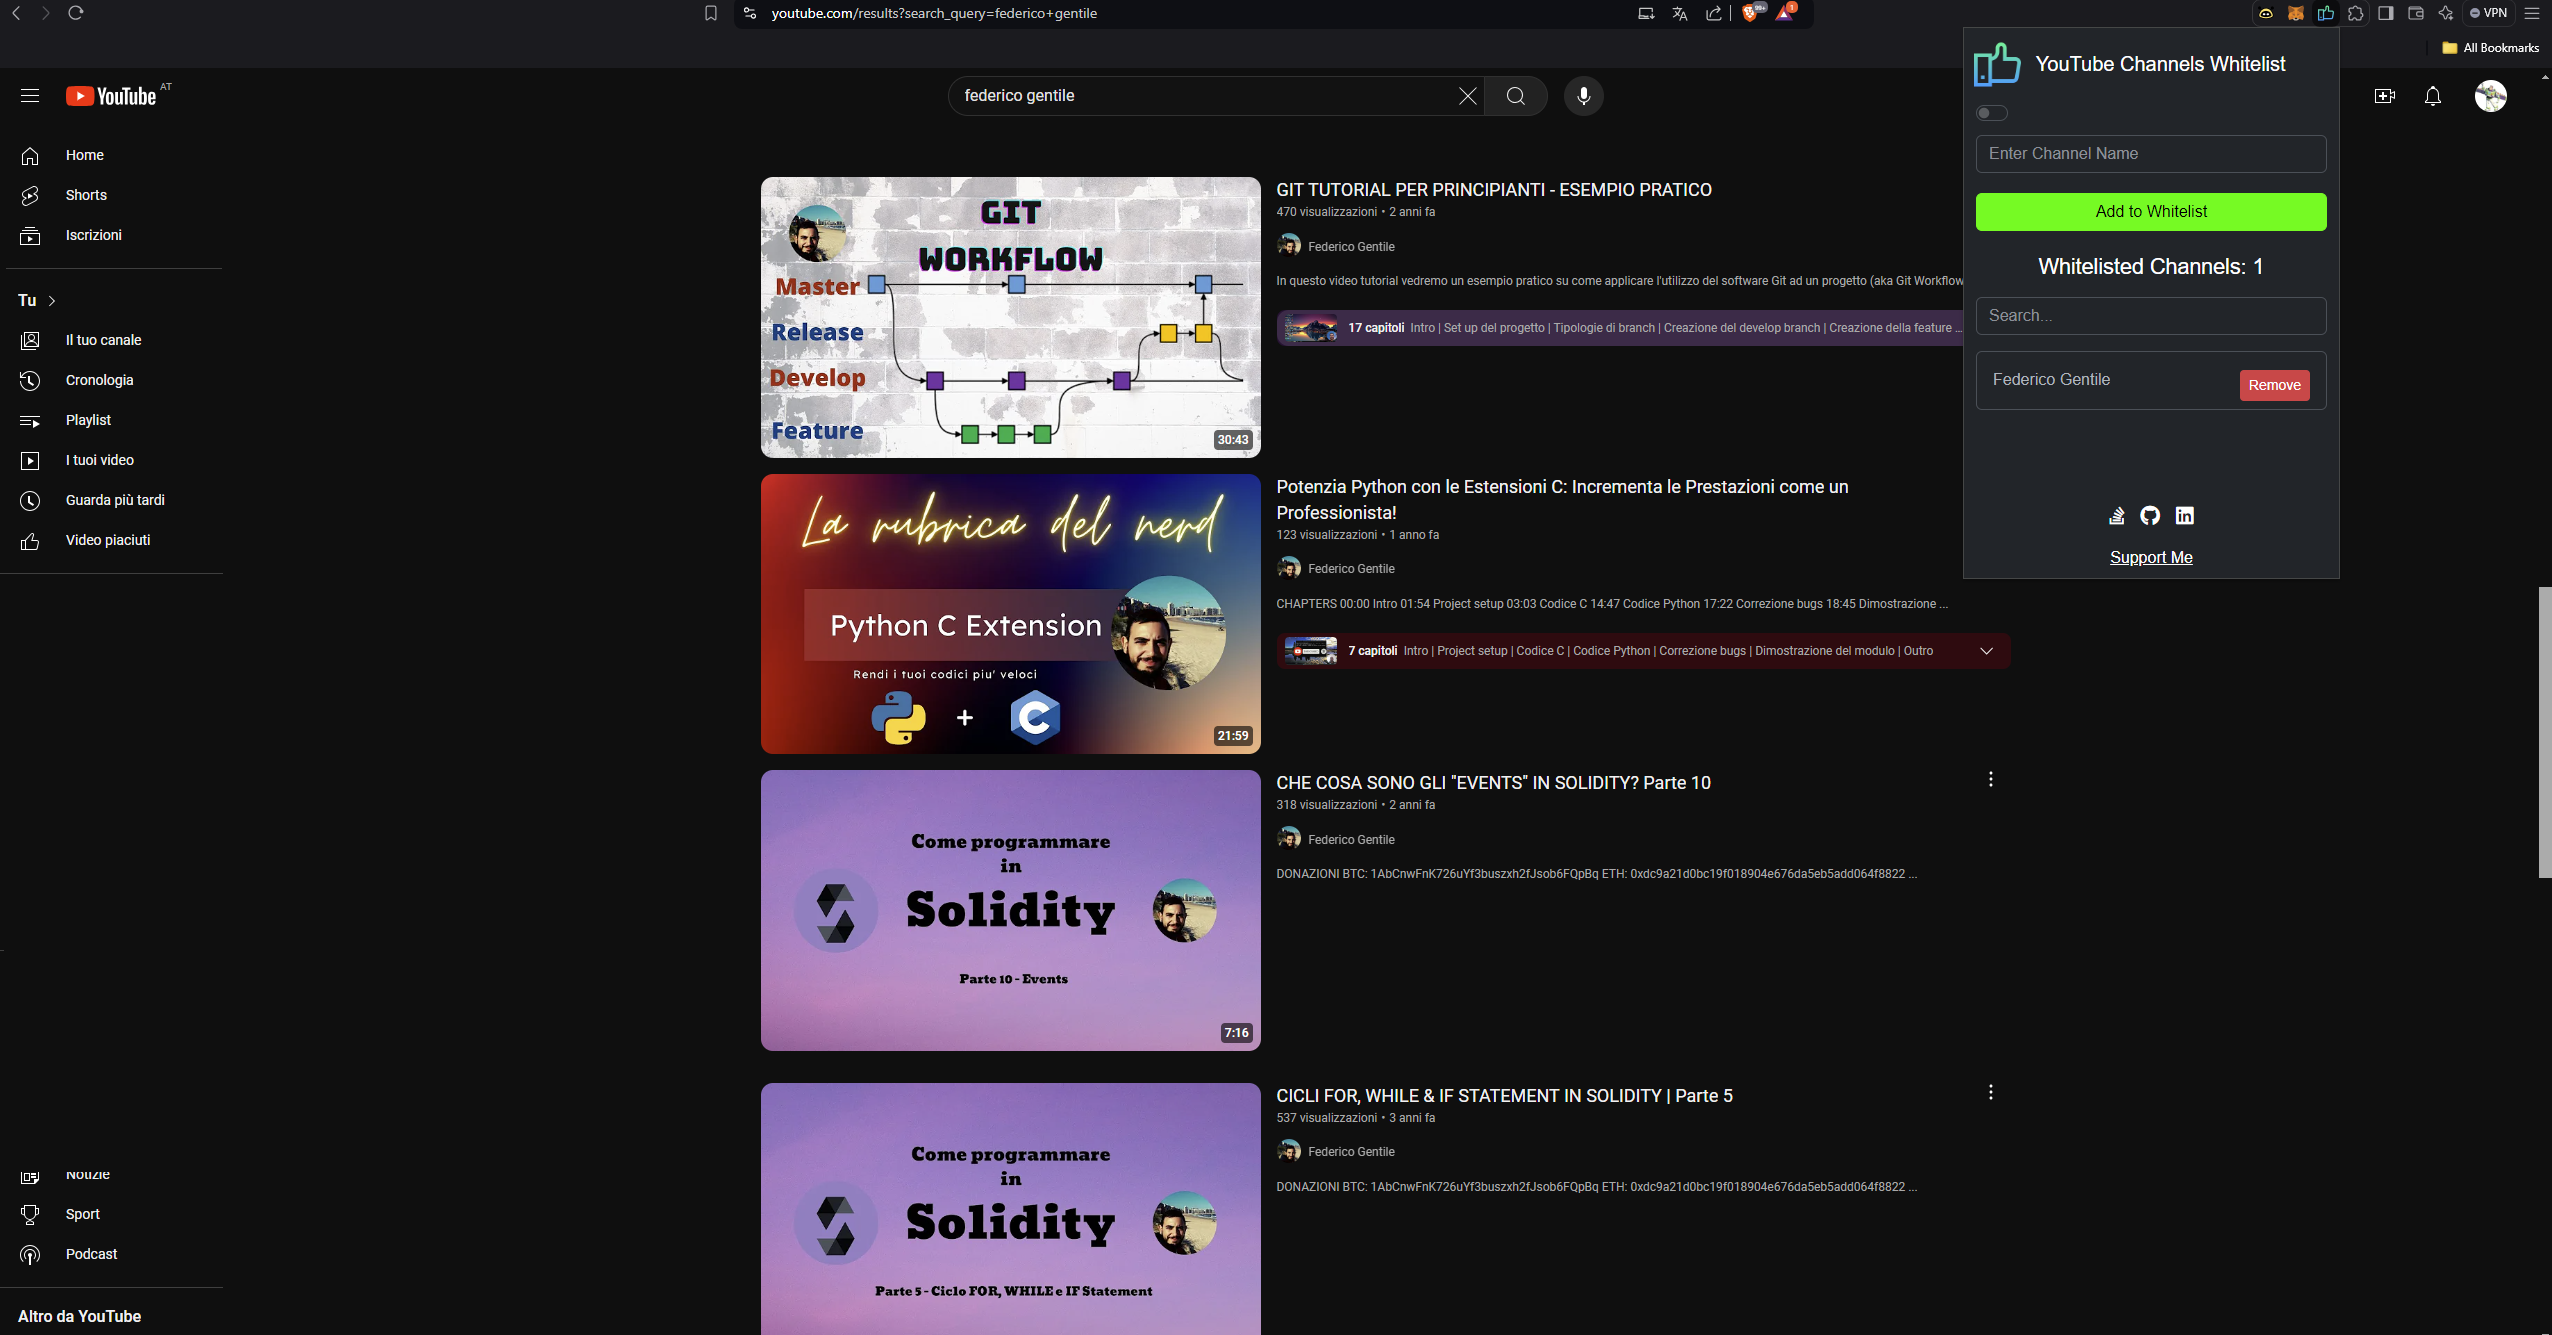
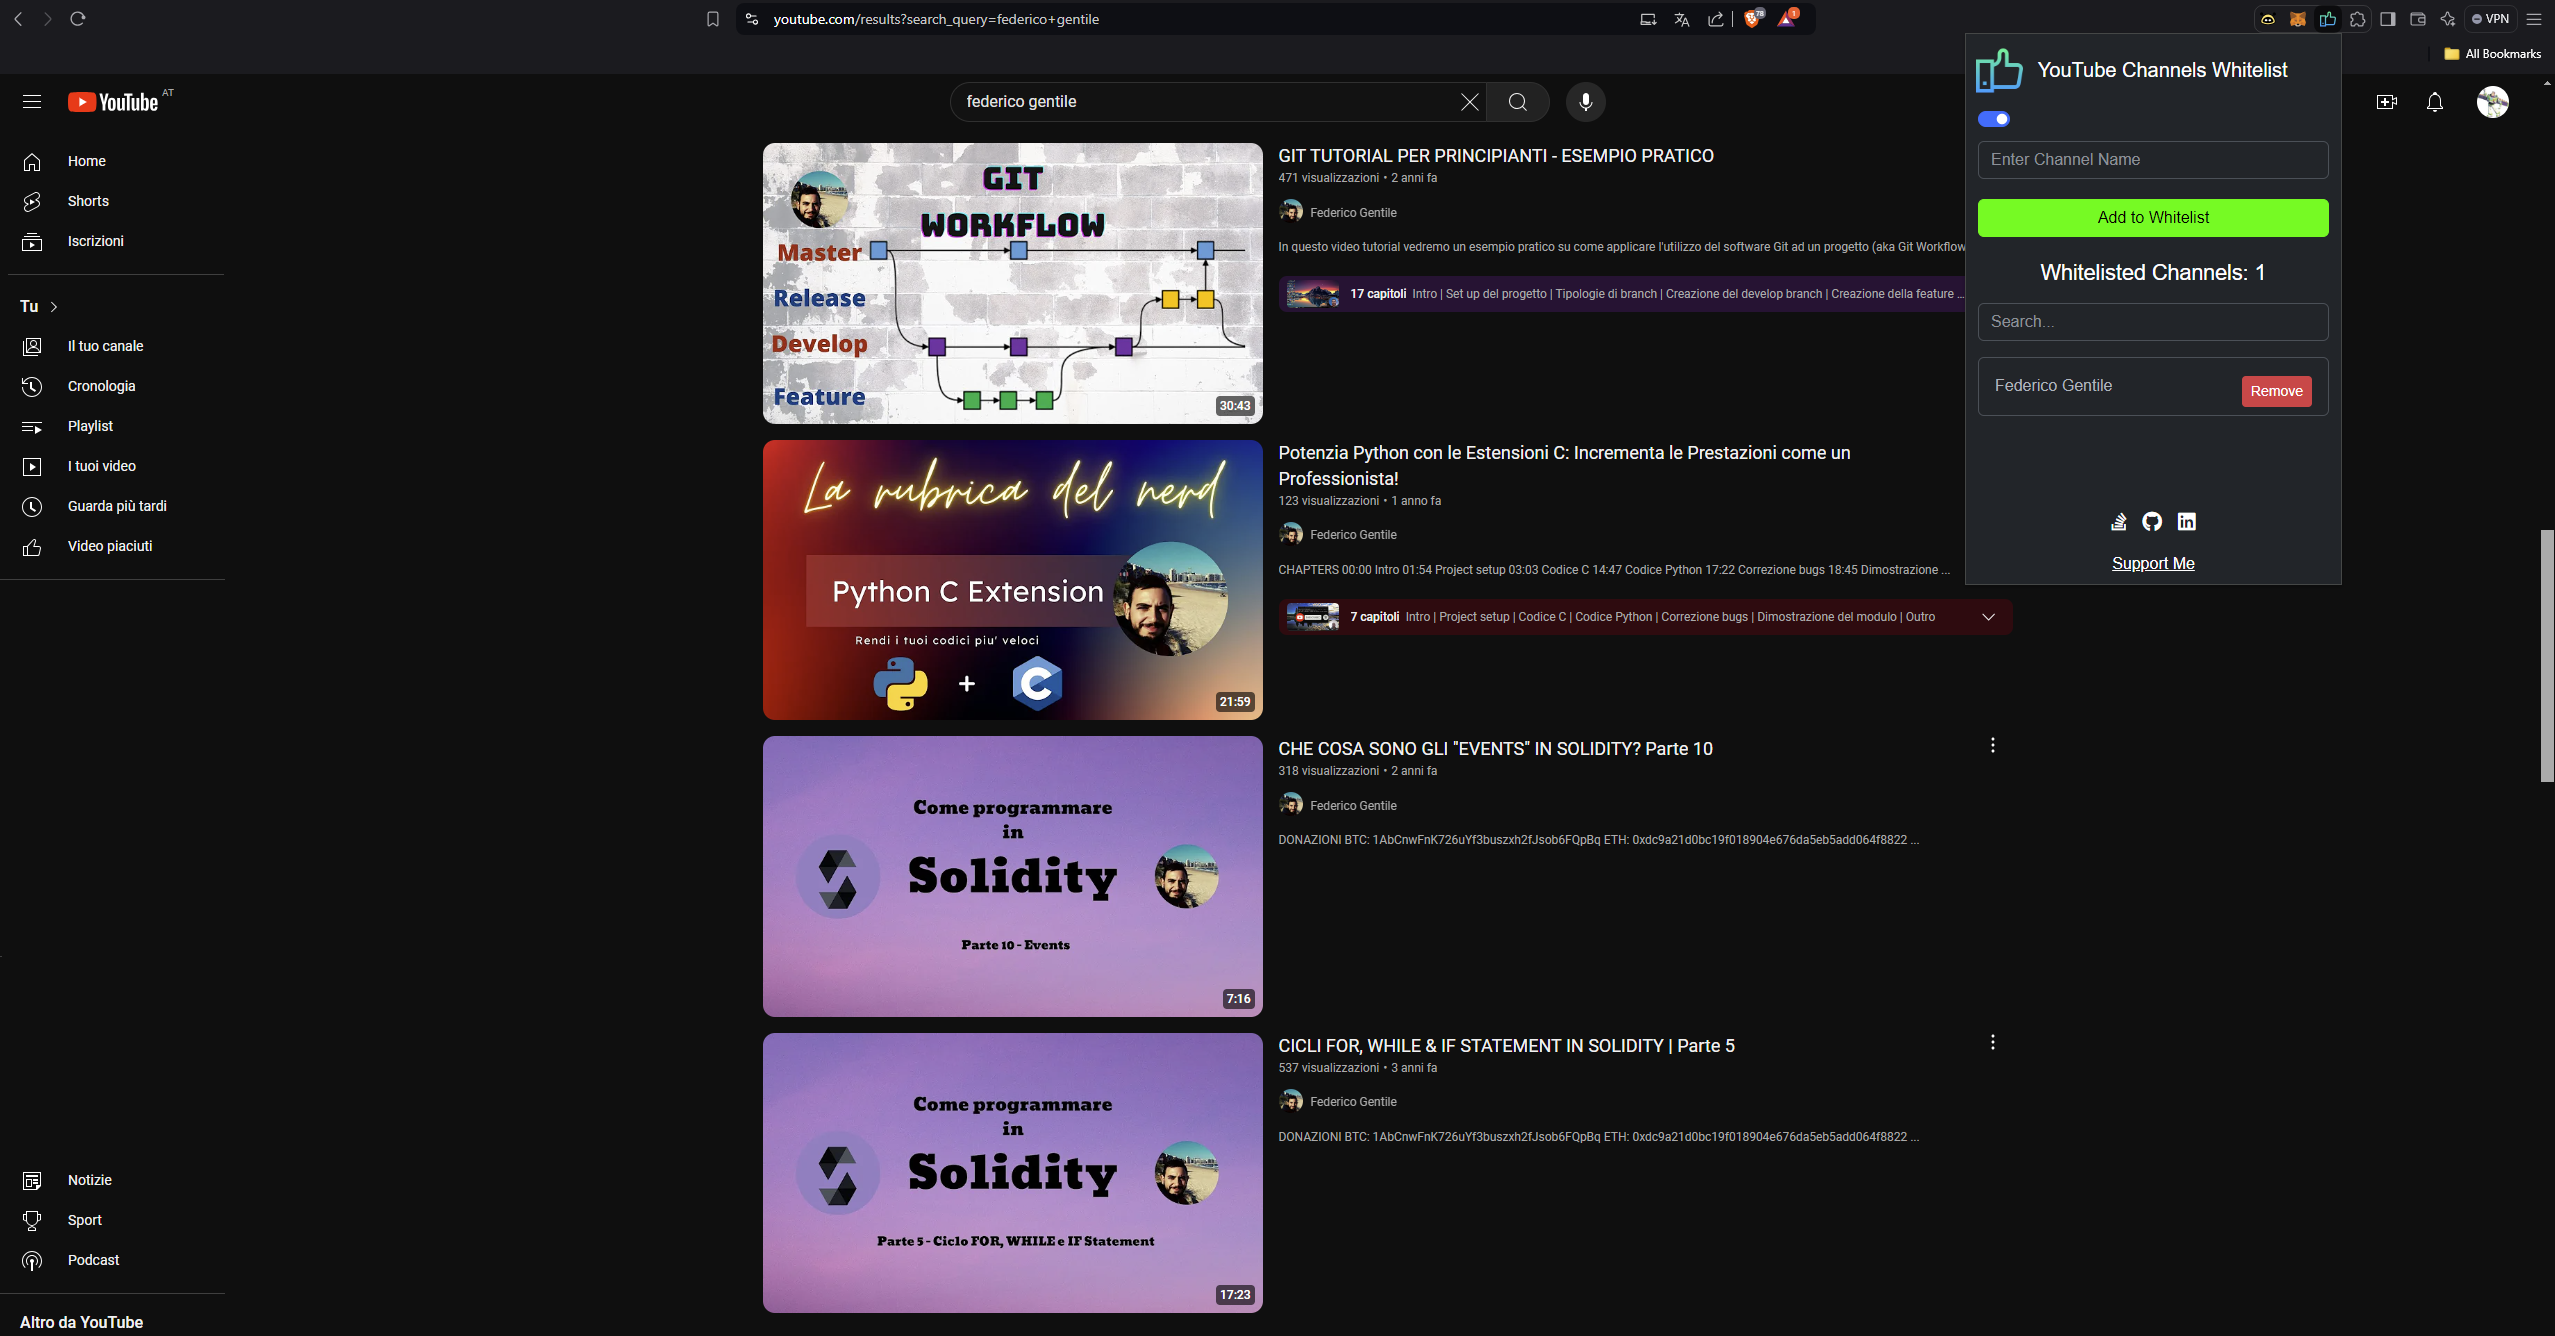
Updated readme

diff --git a/README.md b/README.md
@@ -16,4 +16,7 @@ Download it from:
 2. Write the name of the channel in the popup window and click **Add to Whitelist**:
 <img src="./images/how_to_02.png" alt="how_to_02"/>
 
-3. Click on **Remove** to remove the channel from the whitelist and see the contents again.
+3. Do not forget to active the filter!
+<img src="./images/how_to_03.png" alt="how_to_03"/>
+
+4. Click on **Remove** to remove the channel from the whitelist and see the contents again.
